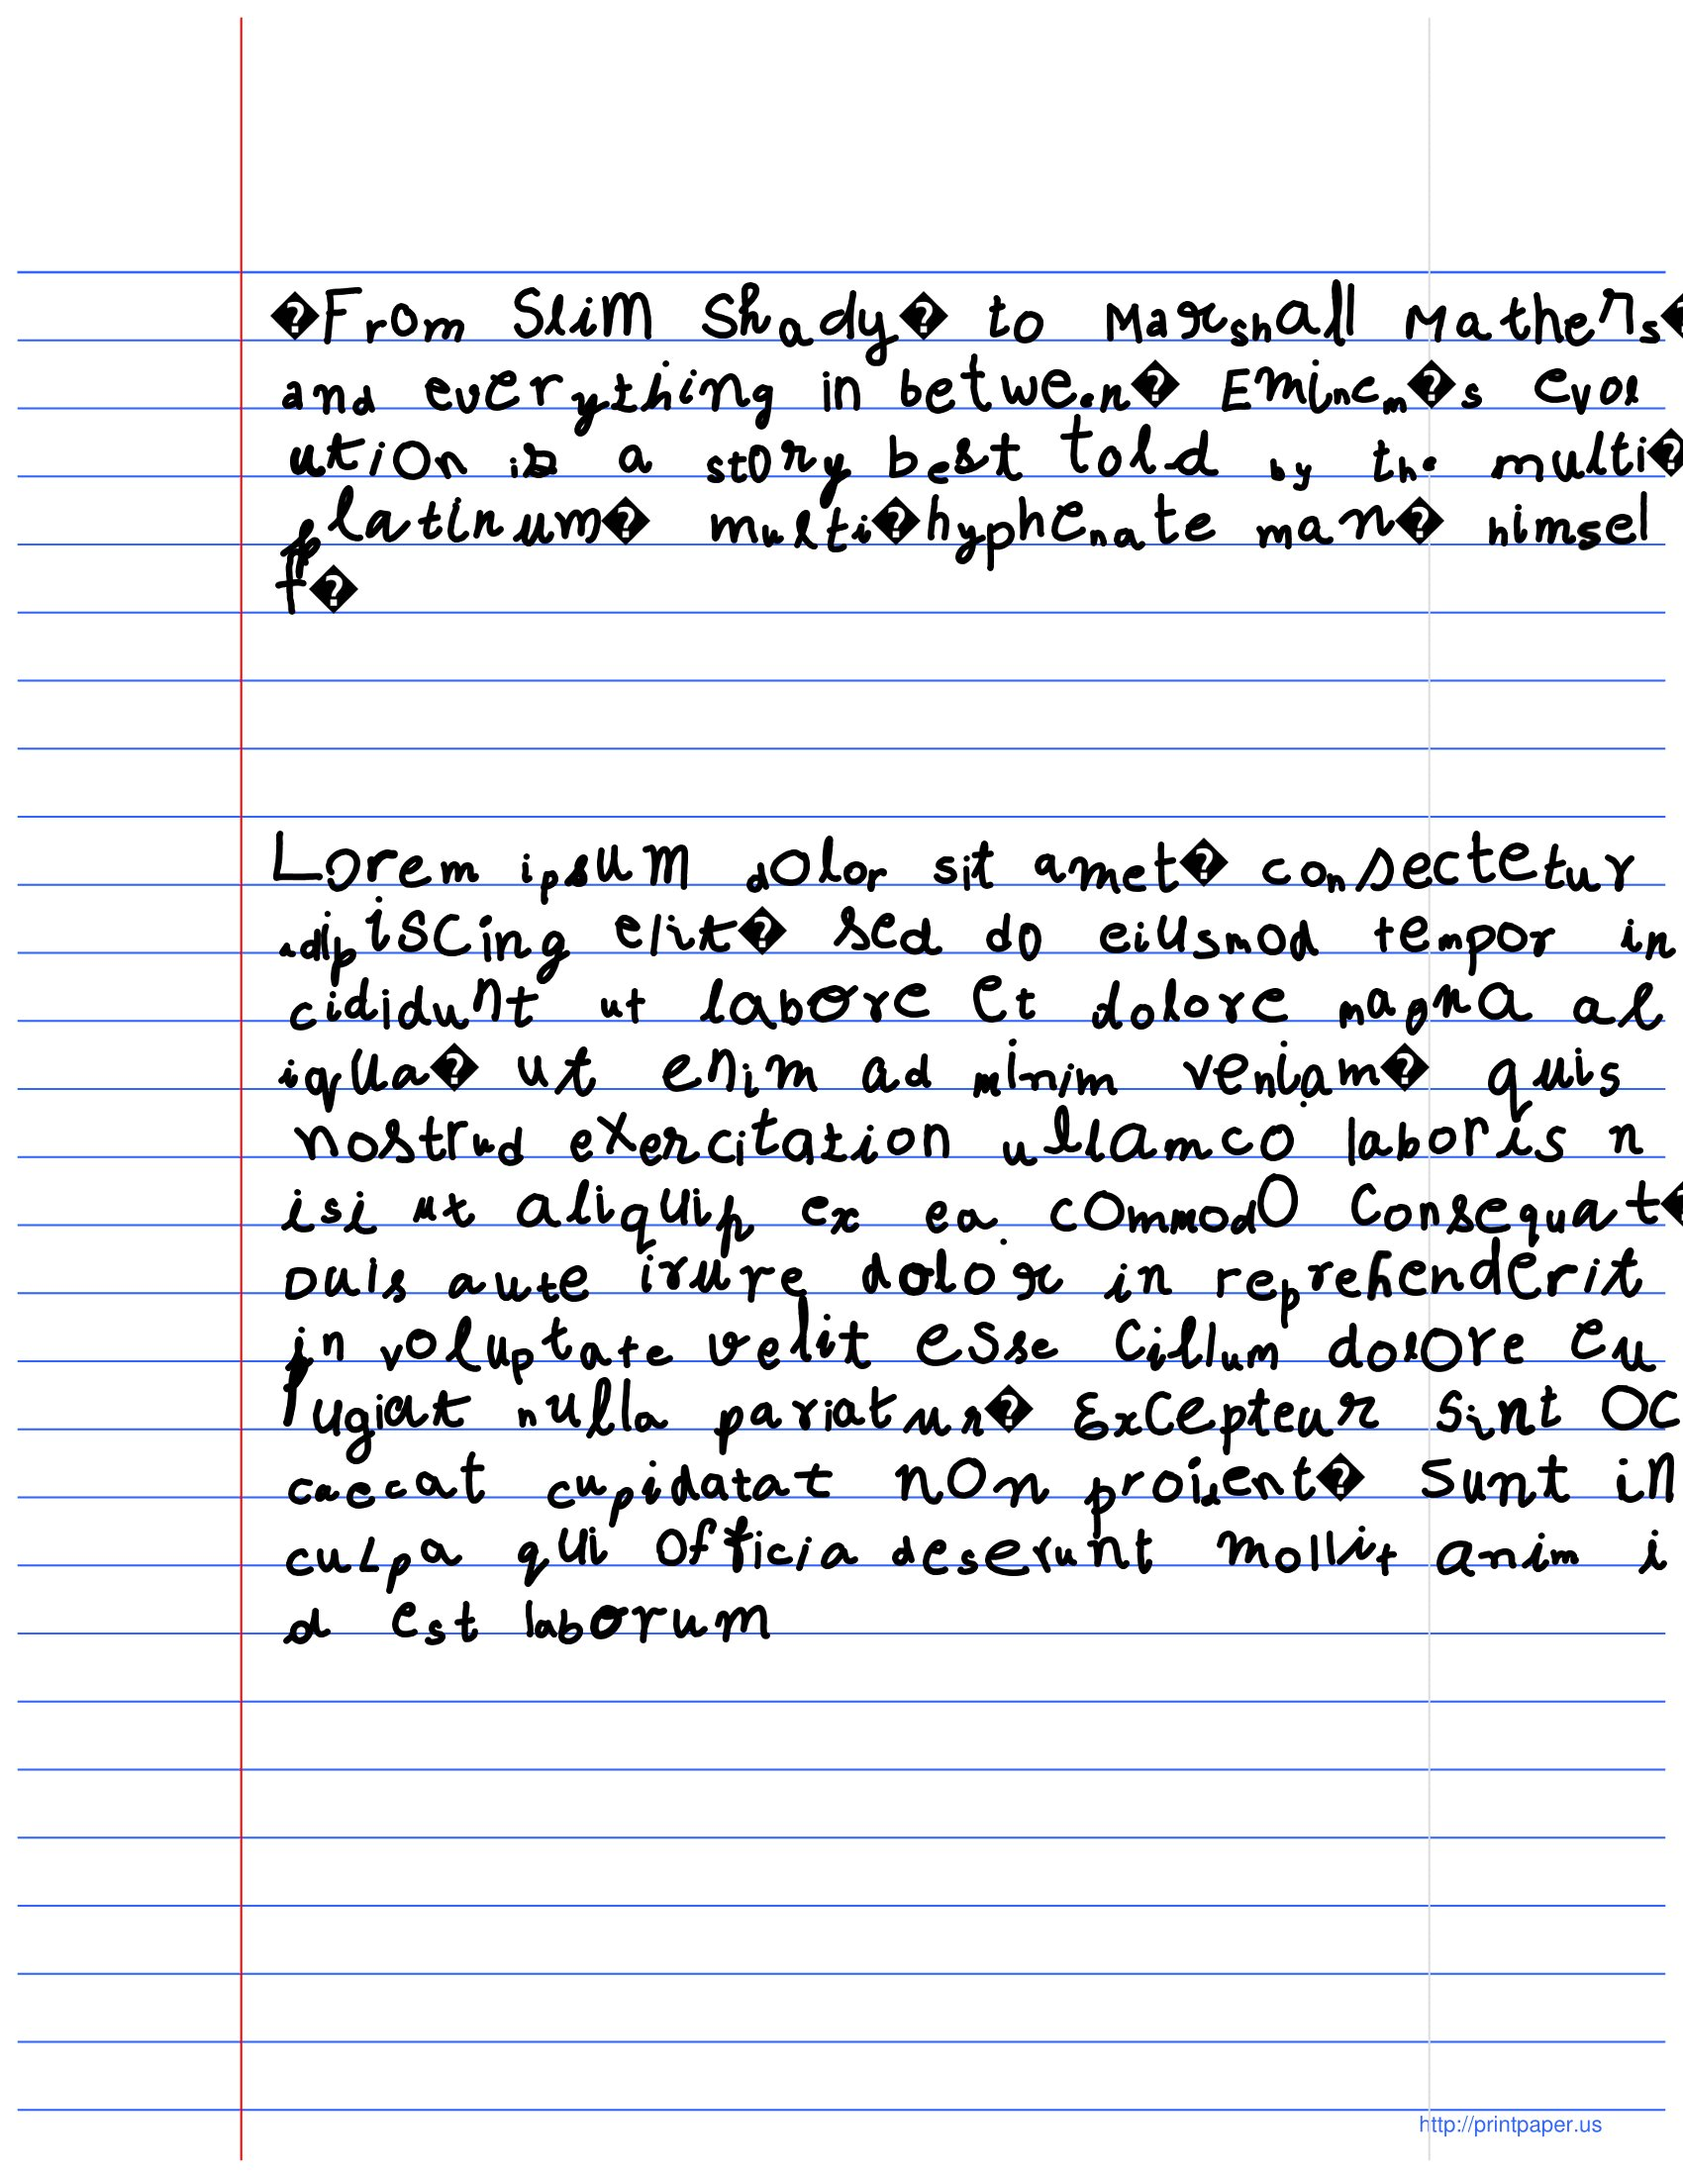
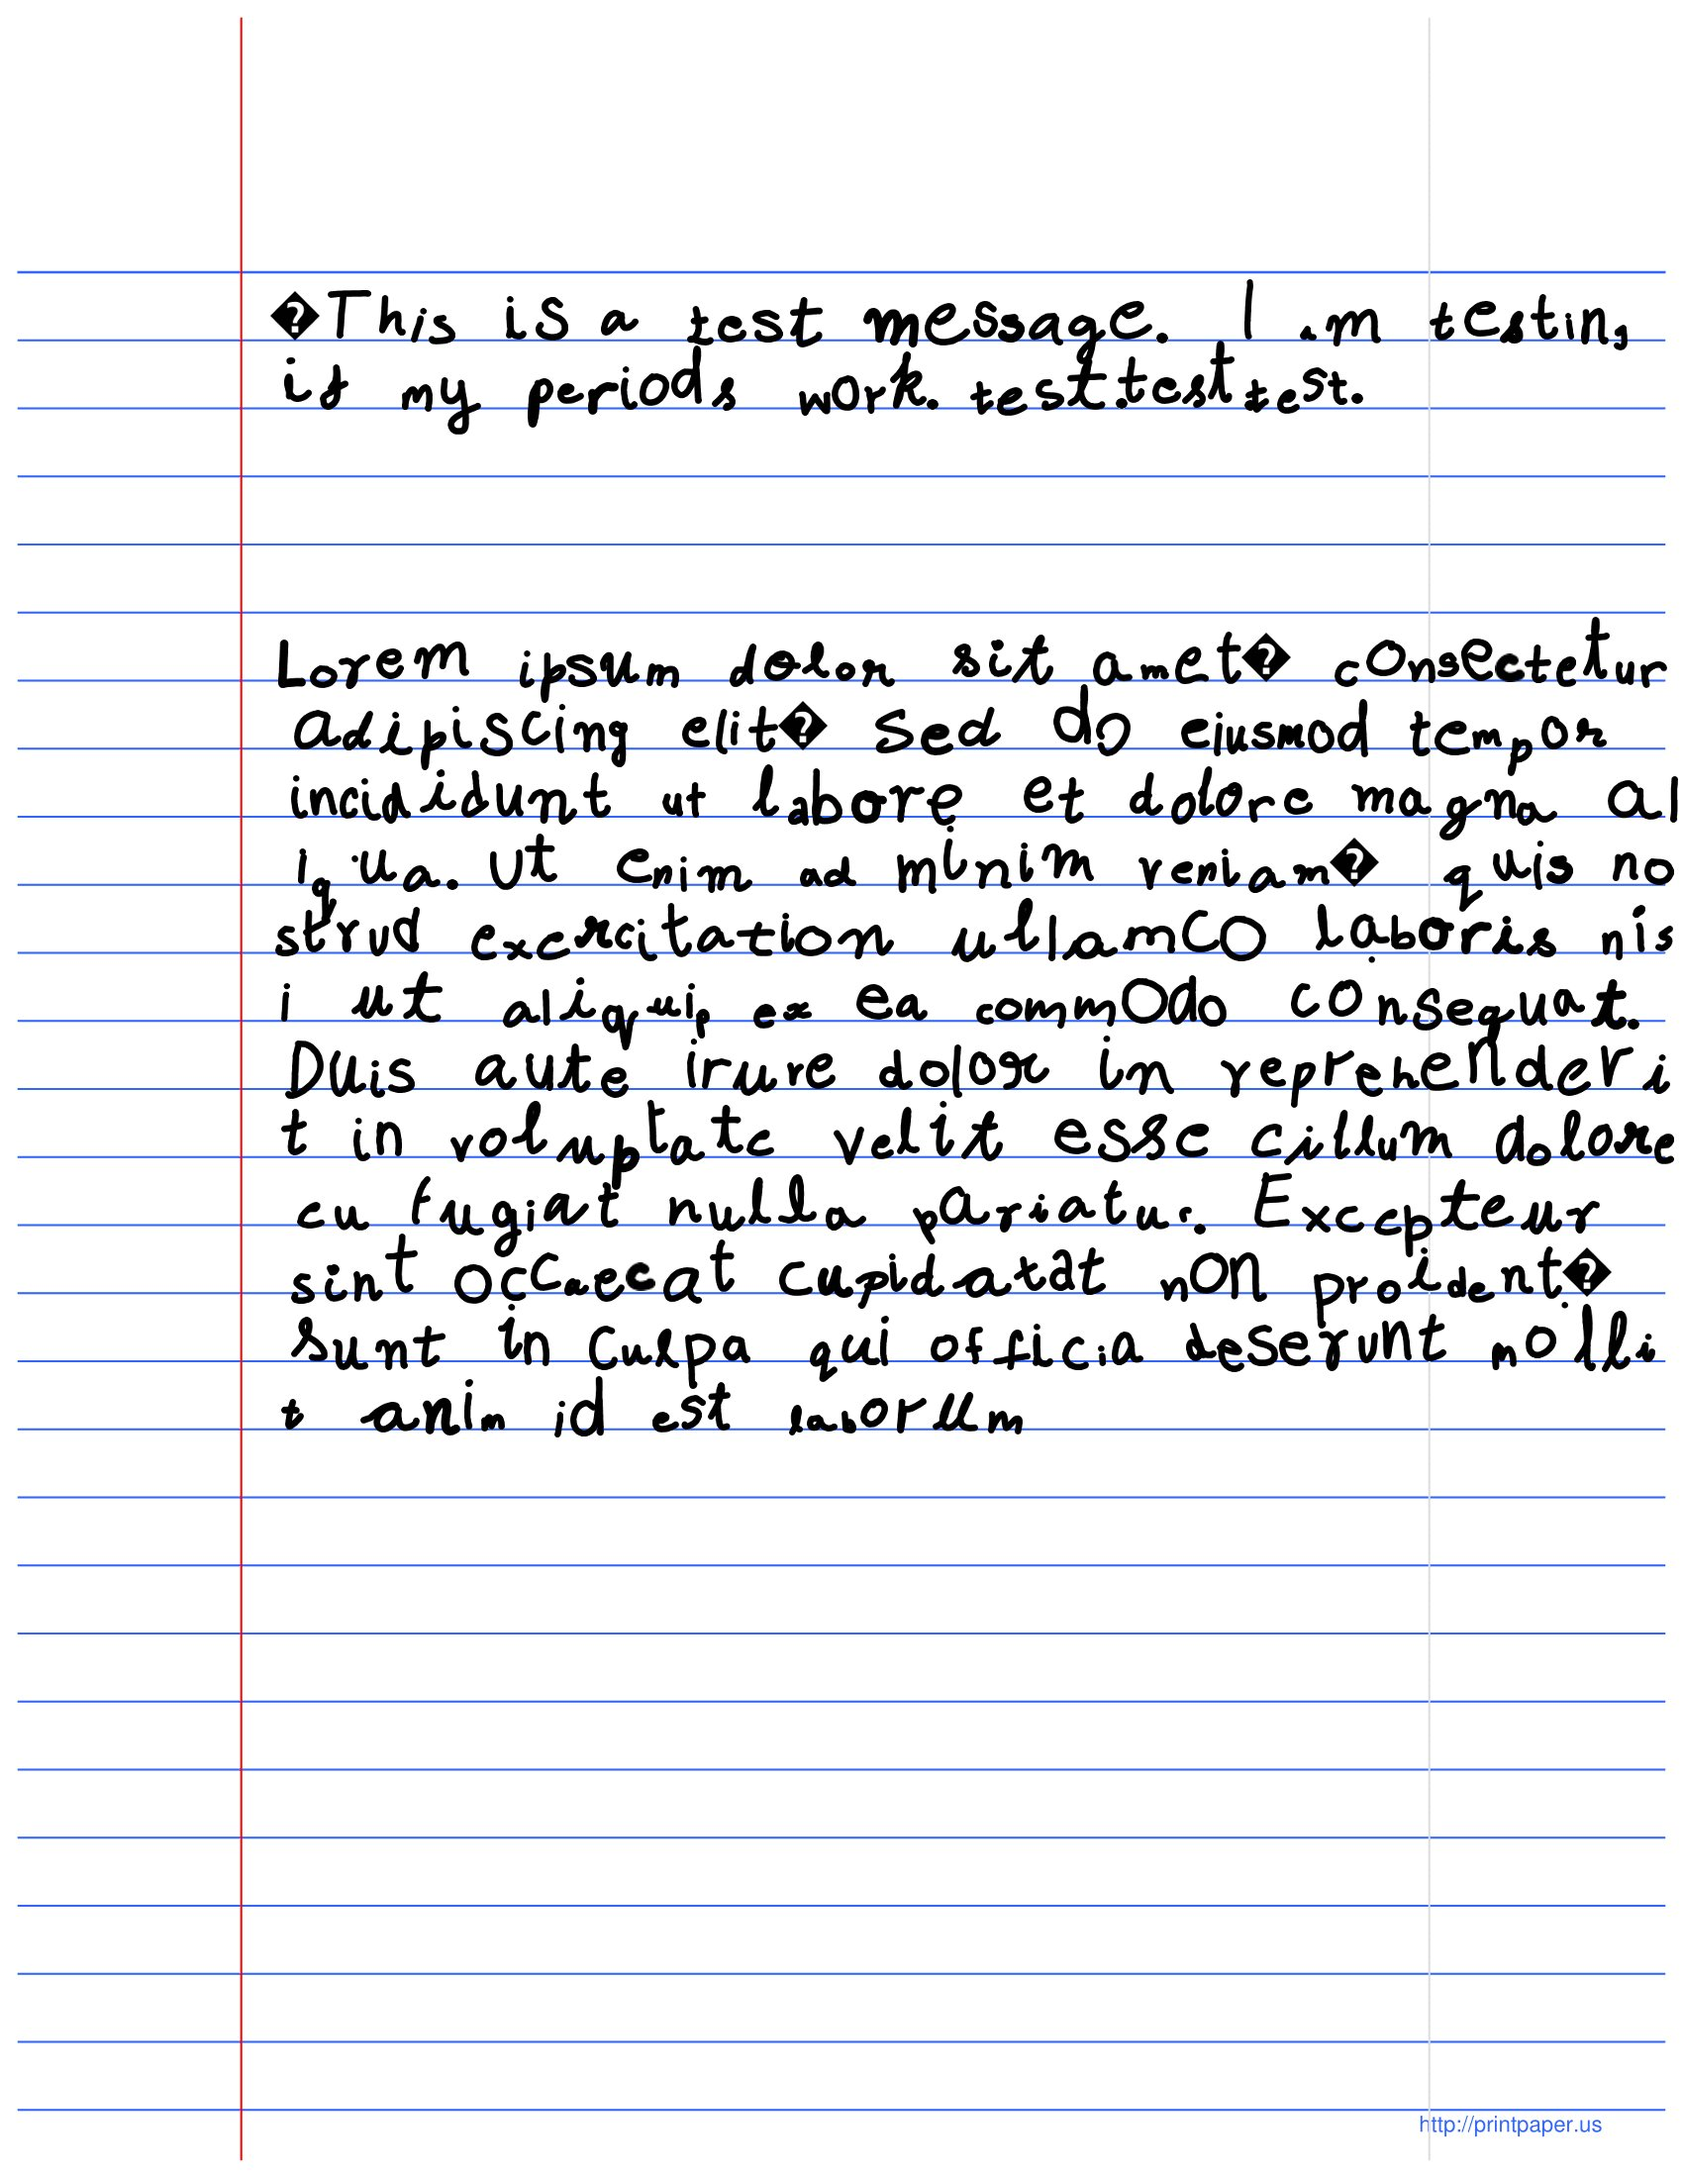
Added a period

Changed region(s): [[0.1559, 0.1236, 1.0, 0.7727]]

diff --git a/main.py b/main.py
@@ -145,7 +145,7 @@ def displayDocument(canvas, document):
 			alphabetDict = alphabetDict50
 		elif(dictNum == 51):
 			alphabetDict = alphabetDict51
-
+		#TODO make some more periods and add them to dicts, for now I am justing using a single period image
 		if(char in alphabetDict):
 			#Adds random spacing between each letter
 			#TODO add the ability to overlap
@@ -181,6 +181,14 @@ def displayDocument(canvas, document):
 		elif(char == "\n"):
 			currentLine +=1 
 			collectiveSpacing = 0
+		elif(char == "."):
+			periodImage = pygame.image.load("assets/period.png")
+
+			letterGap = random.uniform(0, 10)
+			
+			collectiveSpacing += letterGap
+
+			canvas.blit(periodImage, (xStart + collectiveSpacing, yStart + currentLine * lineGap - periodImage.get_rect().size[1]  + random.uniform(-7, 7)))
 		
 		#If char not in our dict, put unknown char symbol
 		else:
